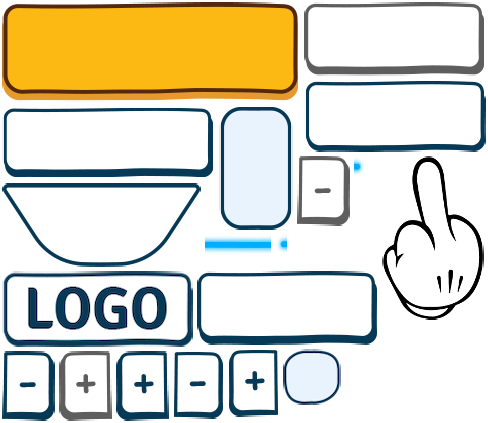
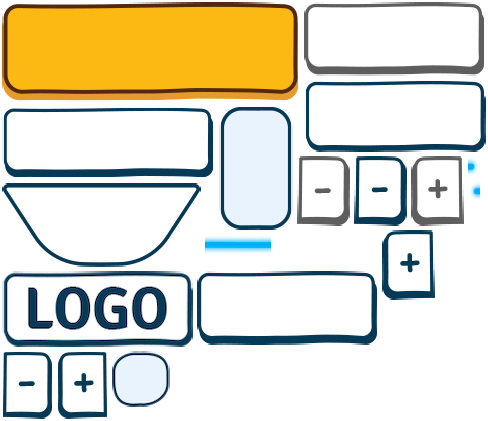
Added balance view.

diff --git a/src/views/UIView.ts b/src/views/UIView.ts
@@ -1,8 +1,11 @@
 import { ICellConfig, PixiGrid } from '@armathai/pixi-grid';
 import { getUIGridConfig } from '../configs/gridConfigs/UIViewGC';
+import { BalanceView } from './BalanceView';
 import { BetControllerView } from './BetControllerView';
 
 export class UIView extends PixiGrid {
+    private controller: BetControllerView;
+    private balance: BalanceView;
     constructor() {
         super();
         this.build();
@@ -17,12 +20,17 @@ export class UIView extends PixiGrid {
     }
 
     private build(): void {
-        // const button = Sprite.from('bkg.png');
-        // button.eventMode = 'static';
-        // button.on('pointerdown', () => lego.event.emit(UIEvents.SpinButtonClick));
-        // this.setChild('buttons', button);
+        this.buildController();
+        this.buildBalance();
+    }
 
-        const controller = new BetControllerView();
-        this.setChild('controller', controller);
+    private buildController(): void {
+        this.controller = new BetControllerView();
+        this.setChild('controller', this.controller);
+    }
+
+    private buildBalance(): void {
+        this.balance = new BalanceView();
+        this.setChild('player_info', this.balance);
     }
 }

diff --git a/src/views/BalanceView.ts b/src/views/BalanceView.ts
@@ -1,0 +1,40 @@
+import { Container, Sprite, Text } from 'pixi.js';
+
+export class BalanceView extends Container {
+    private _balance: Text;
+
+    constructor() {
+        super();
+
+        this.build();
+    }
+
+    private build(): void {
+        this.buildBalance();
+    }
+
+    private buildBalance(): void {
+        const bkg = Sprite.from('spin_btn_up.png');
+        bkg.scale.set(1.3, 1);
+        const balance = new Text('10', {
+            fontFamily: 'Arial',
+            fontSize: 24,
+            fill: 0x5555aa,
+            align: 'center',
+        });
+        const balanceText = new Text('BALANCE -', {
+            fontFamily: 'Arial',
+            fontSize: 24,
+            fill: 0x5555aa,
+            align: 'center',
+        });
+        balance.anchor.set(0.5);
+        balanceText.anchor.set(0.5);
+        balanceText.position.set(-30, 0);
+        balance.position.set(60, 0);
+        bkg.anchor.set(0.5);
+        this.addChild(bkg);
+        this.addChild(balance);
+        this.addChild(balanceText);
+    }
+}

diff --git a/src/configs/gridConfigs/UIViewGC.ts b/src/configs/gridConfigs/UIViewGC.ts
@@ -13,7 +13,11 @@ const getUIGridLandscapeConfig = () => {
         cells: [
             {
                 name: 'controller',
-                bounds: { x: 0, y: 0.8, width: 1, height: 0.2 },
+                bounds: { x: 0, y: 0.8, width: 0.5, height: 0.2 },
+            },
+            {
+                name: 'player_info',
+                bounds: { x: 0.5, y: 0.8, width: 0.5, height: 0.2 },
             },
         ],
     };
@@ -28,7 +32,11 @@ const getUIGridPortraitConfig = () => {
         cells: [
             {
                 name: 'controller',
-                bounds: { x: 0, y: 0.8, width: 1, height: 0.2 },
+                bounds: { x: 0, y: 0.8, width: 0.5, height: 0.2 },
+            },
+            {
+                name: 'player_info',
+                bounds: { x: 0.5, y: 0.8, width: 0.5, height: 0.2 },
             },
         ],
     };

diff --git a/src/models/PlayerModel.ts b/src/models/PlayerModel.ts
@@ -7,7 +7,7 @@ export class PlayerModel extends ObservableModel {
 
     public constructor() {
         super('PlayerModel');
-        this._balance = 18388566;
+        this._balance = 10000;
         this._bet = 0;
 
         this.makeObservable();
